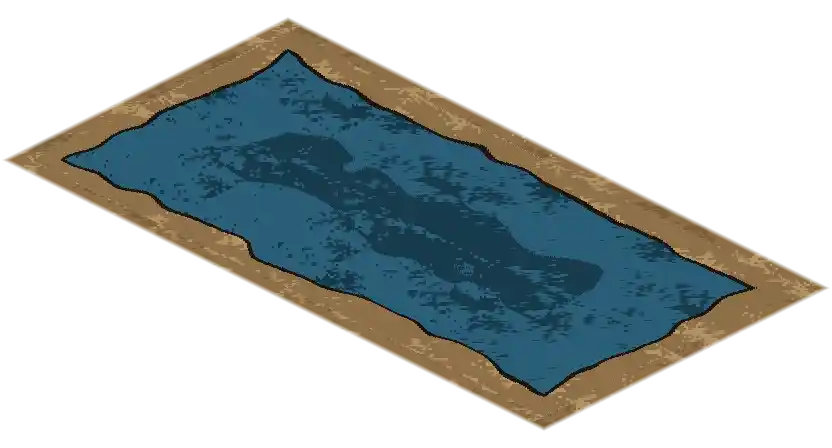
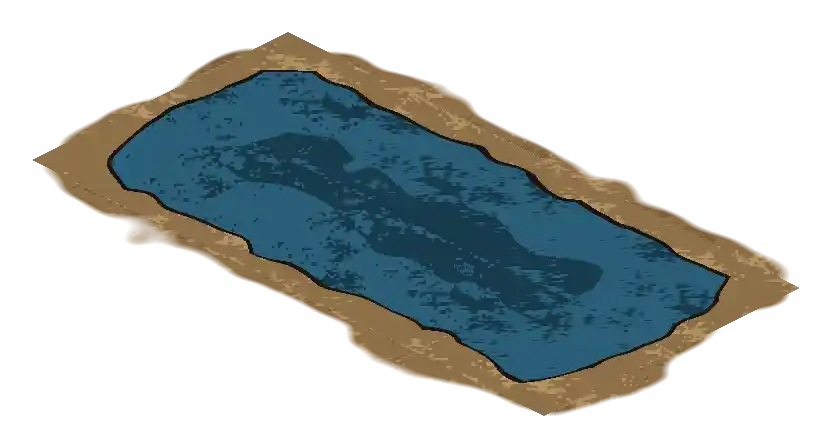
Round the Cutting's runoff pool off the grid's steps
Brings PR 162's organic-shore packer (claude/forest-a1, 0aaeb5d) in
file-for-file except that the forest pond stays on the plain bite here, so
no forest asset moves on this branch; the Cutting's pool opts in and
repacks. When PR 162 lands, FOREST_POND takes its organic: true.

diff --git a/scripts/art/forest-shoreline.ts b/scripts/art/forest-shoreline.ts
@@ -85,8 +85,133 @@ export interface Pond {
     readonly height: number;
   };
   readonly cells: readonly Vec2[];
+  /**
+   * Round the shoreline off the grid's steps (`organicShore`). The Cutting's
+   * runoff pool takes it (M5); the forest's pond and creek take it with PR 162.
+   */
+  readonly organic?: boolean;
+  /**
+   * The land the shore stands in, where it grows over an organic bank: given
+   * a logical point, the colour that ground paints there. A creek in grass
+   * passes the verge, which the grass plates paint on the same lattice, so the
+   * grass runs on over the bank in clumps instead of meeting it along a band.
+   */
+  readonly overgrowth?: (x: number, y: number) => Rgb;
 }
+
+/**
+ * Whether the land's overgrowth covers a bank pixel `into` cells back from the
+ * wet line (`Infinity` on the damp margin outside the water). The grass holds
+ * everything past a second wandering line, from a hair's breadth off the water
+ * to most of a bank's width, so the bare bank is a strip between two organic
+ * lines and never reaches the cells' own edge.
+ */
+export function overgrown(x: number, y: number, into: number): boolean {
+  return into > GRASS_LINE + GRASS_LINE_WANDER * shoreNoise(x * 3.7 + 1.7, y * 3.7 + 9.1);
+}
+/** How far back from the wet line the grass takes over, in cells, and how far that wanders. */
+export const GRASS_LINE = 0.03;
+export const GRASS_LINE_WANDER = 0.26;
 export const FOREST_POND: Pond = { patch: FOREST_POND_PATCH, cells: FOREST_WATER_CELLS };
+
+/**
+ * The organic shore's smoothing radius, in cells. The water's cells are
+ * blurred by a separable tent this wide, so a straight run of edge sits at
+ * 0.5, the corner of a water cell that sticks out at 0.25 and the corner of
+ * dry land that pokes in at 0.75. Under half a cell's reach past 0.5, so a
+ * water cell's middle always reads close to 1 however it is surrounded.
+ */
+export const SHORE_BLUR = 0.65;
+/** Where the wet line sits on the blurred water, and how far it wanders. */
+export const SHORE_LEVEL = 0.66;
+export const SHORE_LEVEL_WANDER = 0.5;
+/** Where the damp margin outside the cells gives out, and how far that wanders. */
+export const MARGIN_LEVEL = 0.36;
+export const MARGIN_LEVEL_WANDER = 0.5;
+/** The margin's own feather, in blurred-water units. */
+export const MARGIN_FEATHER = 0.08;
+
+/** The mass of a tent of half-width `SHORE_BLUR` below `u`. */
+function tentBelow(u: number): number {
+  const r = SHORE_BLUR;
+  if (u <= -r) return 0;
+  if (u >= r) return 1;
+  return u <= 0 ? (u + r) ** 2 / (2 * r * r) : 1 - (r - u) ** 2 / (2 * r * r);
+}
+
+/**
+ * The pond's cells blurred by the tent at a logical point: 1 deep in open
+ * water, 0 well clear of it. Separable and exact, so its level lines are
+ * smooth curves that round a staircase of cells off into a shore.
+ */
+export function blurredWater(x: number, y: number, cells: readonly Vec2[]): number {
+  let sum = 0;
+  for (const c of cells) {
+    if (Math.abs(c.x + 0.5 - x) >= SHORE_BLUR + 0.5 || Math.abs(c.y + 0.5 - y) >= SHORE_BLUR + 0.5)
+      continue;
+    sum +=
+      (tentBelow(c.x + 1 - x) - tentBelow(c.x - x)) * (tentBelow(c.y + 1 - y) - tentBelow(c.y - y));
+  }
+  return sum;
+}
+
+/**
+ * Straight-line distance, in cells, from a point in the water to the nearest
+ * cell that is not water. Measured on the ground plane rather than across
+ * packed pixels, so a line held at a fixed distance from the land rounds each
+ * corner of land that pokes into the water on a circle.
+ */
+const WATER_SETS = new WeakMap<readonly Vec2[], ReadonlySet<string>>();
+export function landDistance(x: number, y: number, cells: readonly Vec2[]): number {
+  let water = WATER_SETS.get(cells);
+  if (!water) {
+    water = new Set(cells.map((c) => `${c.x},${c.y}`));
+    WATER_SETS.set(cells, water);
+  }
+  const cx = Math.floor(x),
+    cy = Math.floor(y);
+  let best = 2;
+  for (let oy = -2; oy <= 2; oy++)
+    for (let ox = -2; ox <= 2; ox++) {
+      const lx = cx + ox,
+        ly = cy + oy;
+      if (water.has(`${lx},${ly}`)) continue;
+      const dx = Math.max(lx - x, x - lx - 1, 0),
+        dy = Math.max(ly - y, y - ly - 1, 0);
+      best = Math.min(best, Math.hypot(dx, dy));
+    }
+  return best;
+}
+
+/**
+ * How far a point inside the water lies on the wet side of the organic line,
+ * in cells (negative on the bank). Two lines, and the bank takes whichever
+ * reaches further in: one on the blurred water's wandering level, which rounds
+ * off the corners water cells push out; one at the bite's wandering depth
+ * from the land, which rounds the corners the land pushes in.
+ */
+export function organicShore(x: number, y: number, cells: readonly Vec2[]): number {
+  const level = SHORE_LEVEL + SHORE_LEVEL_WANDER * (shoreNoise(x * 1.9 + 3.1, y * 1.9 + 8.3) - 0.5);
+  const e = 0.01;
+  const b = blurredWater(x, y, cells);
+  const gx = (blurredWater(x + e, y, cells) - blurredWater(x - e, y, cells)) / (2 * e);
+  const gy = (blurredWater(x, y + e, cells) - blurredWater(x, y - e, cells)) / (2 * e);
+  const fromLevel = (b - level) / Math.max(0.5, Math.hypot(gx, gy));
+  return Math.min(fromLevel, landDistance(x, y, cells) - biteDepth(x, y));
+}
+
+/**
+ * The damp margin's alpha at a dry point just outside the water: opaque near
+ * the shore and feathered out where the blurred water falls to a wandering
+ * level, so the ring's outer edge is a soft wandering line rather than the
+ * cells' outline at a fixed offset.
+ */
+function organicMargin(x: number, y: number, cells: readonly Vec2[]): number {
+  const level =
+    MARGIN_LEVEL + MARGIN_LEVEL_WANDER * (shoreNoise(x * 2.3 + 17.9, y * 2.3 + 5.3) - 0.5);
+  const b = blurredWater(x, y, cells);
+  return Math.round(255 * clamp((b - level) / MARGIN_FEATHER));
+}
 
 export function shorePosition(px: number, py: number, density = 2, pond: Pond = FOREST_POND) {
   const worldX = pond.patch.x + (px + 0.5) / density;
@@ -234,17 +359,18 @@ interface WetPaint {
 }
 
 /**
- * One wet pixel of a pond, `inside` cells in from the water's edge with the
- * bank biting `depth` cells in at that point (`biteDepth`). The forest pond and
- * the Cutting's pool both paint every wet pixel here, which is what makes them
- * one water language rather than two that happen to share tones.
+ * One wet pixel of a pond, `inside` cells in from the water's edge and
+ * `fromLine` cells on the water side of the wet line (negative on the bank).
+ * The forest pond and the Cutting's pool both paint every wet pixel here,
+ * which is what makes them one water language rather than two that happen to
+ * share tones.
  */
 function wetPixel(
   material: Pick<VillagePalette<'margin' | 'bed'>, 'classOf' | 'ink'>,
   x: number,
   y: number,
   inside: number,
-  depth: number,
+  fromLine: number,
 ): WetPaint {
   // The bed is opaque across every wet pixel, so the 0.4-alpha water film
   // always tints authored bottom rather than whatever ground the pond
@@ -252,8 +378,7 @@ function wetPixel(
   // between the bite and the bed, which is where the ink belongs: the
   // tile edge is not a material edge, and never was. The ink meets the bed
   // directly: a pale band on its water side read as a selection ring.
-  const fromLine = inside - depth;
-  const part = Math.abs(fromLine) < INK_HALF ? 'ink' : inside < depth ? 'bank' : 'bed';
+  const part = Math.abs(fromLine) < INK_HALF ? 'ink' : fromLine < 0 ? 'bank' : 'bed';
   if (part === 'ink') return { part, rgb: material.ink, deep: false };
   if (part === 'bank')
     return {
@@ -302,23 +427,40 @@ export function packShoreline(
       const distance = shoreDistance(x, y, pond.cells);
       const depth = biteDepth(x, y);
       const inside = inset[py * out.width + px] ?? 0;
-      const dryOutside = distance > 0 && distance < SHORE_LIMIT;
+      /*
+       * The organic shore's damp margin gives out on the blurred water, not at
+       * a fixed offset from the cells, so it has no alpha to spend where the
+       * blur says dry ground.
+       */
+      const marginAlpha =
+        pond.organic && distance > 0 && inside <= 0 ? organicMargin(x, y, pond.cells) : 0;
+      const dryOutside = pond.organic ? marginAlpha > 0 : distance > 0 && distance < SHORE_LIMIT;
       /*
        * Inside a water cell the bank reaches in by `depth`, so the wet outline
        * wanders instead of running along the tile's own edge. The bite is
        * bounded well below half a cell, so the middle of every water cell —
        * where a unit stands and where the runtime water reads as water — is
        * never covered.
+       *
+       * An organic shore also takes the bank in wherever the blurred water
+       * falls short of its wandering level. That rounds off every corner a
+       * water cell pushes out, so the wet line runs as one curve across the
+       * steps of the cells instead of stepping with them; the bite still
+       * rounds the land that pokes into the water.
        */
-      const dryInside = inside > 0 && inside < depth;
       const wet = inside > 0;
+      const fromLine = wet && pond.organic ? organicShore(x, y, pond.cells) : inside - depth;
+      const dryInside = wet && fromLine < 0;
       if (!dryOutside && !wet) continue;
 
       let rgb: readonly number[];
       let alpha = 255;
       if (wet) {
-        const paint = wetPixel(material, x, y, inside, depth);
-        rgb = paint.rgb;
+        const paint = wetPixel(material, x, y, inside, fromLine);
+        rgb =
+          pond.overgrowth && paint.part === 'bank' && overgrown(x, y, -fromLine - INK_HALF)
+            ? pond.overgrowth(x, y)
+            : paint.rgb;
         if (paint.part === 'ink') inkPixels++;
         if (dryInside) {
           bitePixels++;
@@ -333,10 +475,14 @@ export function packShoreline(
         // Nothing lies under this band, outside the water: it keeps the damp
         // margin, opaque against the bank and feathered out to the dry ground
         // so the plate's own rim never ends on a ruled line.
-        rgb = material.colour('margin', x, y);
+        rgb =
+          pond.overgrowth && overgrown(x, y, Infinity)
+            ? pond.overgrowth(x, y)
+            : material.colour('margin', x, y);
         record(bands.dry, rgb);
-        alpha =
-          distance <= COVER_LIMIT
+        alpha = pond.organic
+          ? marginAlpha
+          : distance <= COVER_LIMIT
             ? 255
             : Math.round((255 * (SHORE_LIMIT - distance)) / (SHORE_LIMIT - COVER_LIMIT));
       }

diff --git a/src/content/scenes/quarryProjected.ts b/src/content/scenes/quarryProjected.ts
@@ -126,9 +126,10 @@ export const CUTTING_WATER_CELLS: readonly Vec2[] = [
  * the forest pond's 16-pixel pad (`FOREST_POND_PATCH`). It is packed at twice
  * this size, as the forest's is.
  *
- * The same plate, one tile west and one half-tile north of its pre-M5
- * registration (752, 368): a pure `(-64, -32)` translation of the drawing the
- * live water film sits on, not a repaint.
+ * The patch sits one tile west and one half-tile north of its pre-M5
+ * registration (752, 368), a `(-64, -32)` translation that follows the cells.
+ * The plate itself is repacked there with the organic shore (PR 162's
+ * `organic` option), so its wet line rounds off the cells' steps.
  */
 export const CUTTING_POOL_PATCH = { x: 688, y: 336, width: 416, height: 224 } as const;
 

diff --git a/scripts/art/quarry-route-ground.ts b/scripts/art/quarry-route-ground.ts
@@ -471,7 +471,13 @@ const CUTTING_TRACK = { centre: 6, offset: 1.5 } as const;
 export const CUTTING_POOL_OUTPUT = 'public/art/maps/cutting-scene/pool-bank.webp';
 export async function buildCuttingPool(): Promise<Image> {
   const material = await loadQuarryMaterial(CUTTING_TRACK);
-  return packShoreline(material, { patch: CUTTING_POOL_PATCH, cells: CUTTING_WATER_CELLS }).image;
+  // The runoff pool is organic (M5): its wet line rounds off the cells'
+  // steps, where the plain bite left a flat teal rectangle in the cut.
+  return packShoreline(material, {
+    patch: CUTTING_POOL_PATCH,
+    cells: CUTTING_WATER_CELLS,
+    organic: true,
+  }).image;
 }
 
 /** Rewrite one generated declaration in the registration file, or append it. */

diff --git a/src/content/scenes/quarryRouteGround.ts b/src/content/scenes/quarryRouteGround.ts
@@ -61,4 +61,4 @@ export const CUTTING_GROUND_REGIONS = [
   }
 ] as const;
 
-export const CUTTING_POOL_BYTES = 10718;
+export const CUTTING_POOL_BYTES = 15468;
